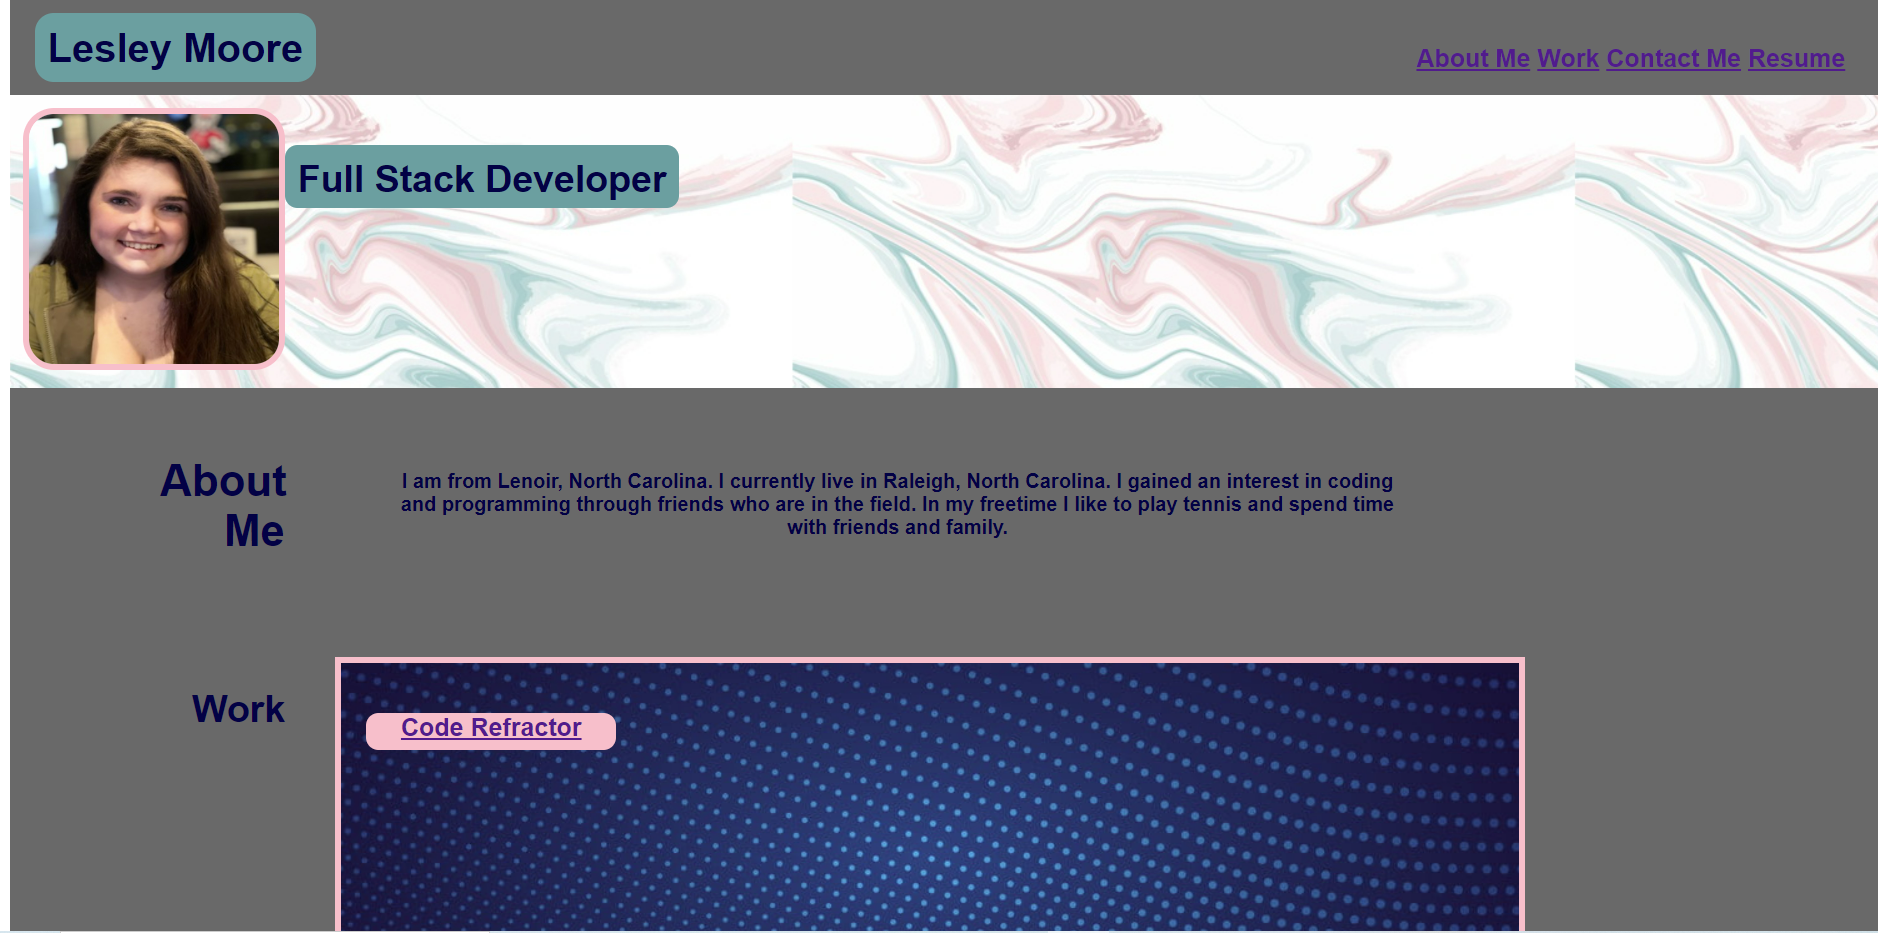
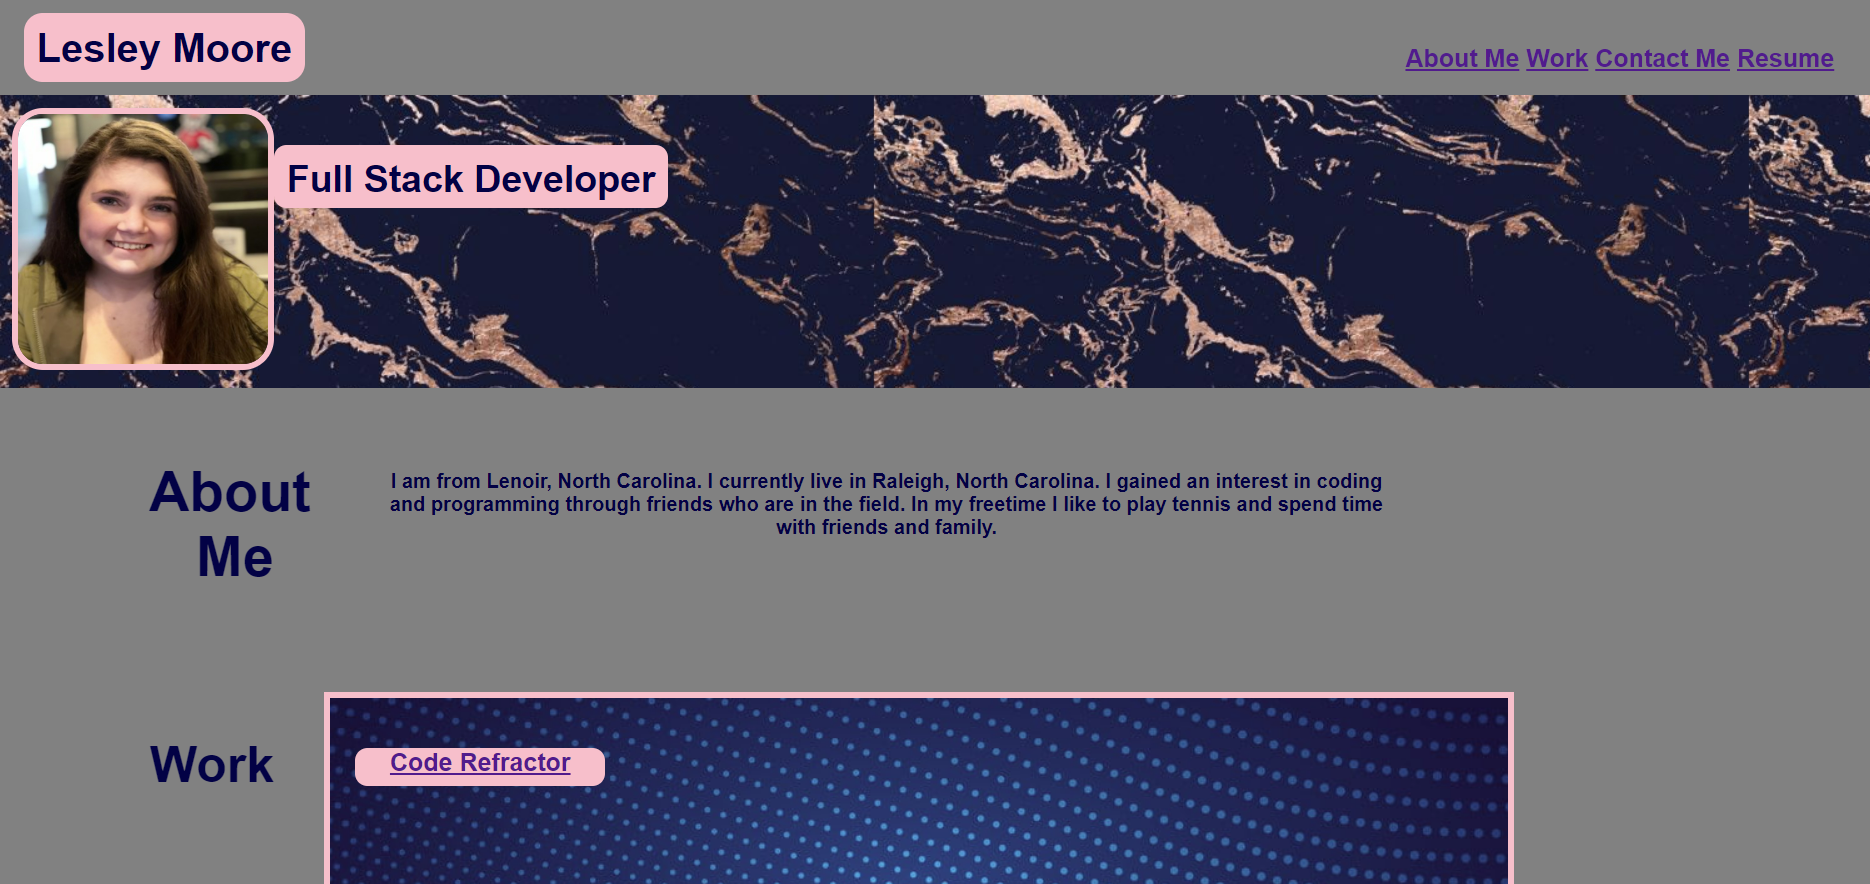
updated readme, and link colors

diff --git a/style.css b/style.css
@@ -29,6 +29,10 @@ header h1{
     font-size: 20px;
     padding: 15px;
 }
+/*determine links color*/
+.link {
+    color: var(--navy);
+}
 /*image across under header*/
 .area {
     background-image: url(https://i.pinimg.com/originals/54/6e/d6/546ed6136fd398c3a2a6eab2896e2064.jpg);
@@ -84,7 +88,7 @@ header h1{
     margin-left: 100px;
     margin-right: 20px;
     text-align: right;
-    font-size: 30px;
+    font-size: 40px;
 }
 .card {
     background-color:var(--pink);

diff --git a/index.html b/index.html
@@ -9,10 +9,10 @@
 <main>
 <header>
     <nav class="top">
-        <a href="#About">About Me</a>
-        <a href="#Work">Work</a>
-        <a href="#Contact">Contact Me</a>
-        <a href="#Resume">Resume</a>
+        <a class="link" href="#About">About Me</a>
+        <a class="link" href="#Work">Work</a>
+        <a class="link" href="#Contact">Contact Me</a>
+        <a class="link" href="#Resume">Resume</a>
     </nav>
     <h1>Lesley Moore</h1>
 </header>

diff --git a/README.md b/README.md
@@ -4,18 +4,19 @@ This is my Professional Portfolio I will continue to build off of and add projec
 
 ## Requirements
 
-* Name, recent photo, links to navigate to sections, work, contact info
+* Name, recent photo, links to navigate to sections
 * Navigation links will scroll to corresponding section when clicked
 * First application in work is larger in size than others
 * Images take you to the deployed application
 * Responsive layout that adapts to viewpoint
 * HTML and CSS uses best practices for naming, comments, organization, etc
+* Descriptive commit comments
 * Live URL and no errors loading website
 * ReadME on GitHub with screenshot and link to website
 
 ## Project Notes
 
-I created a Portfolio that will display my work for employers and other developers. I chose a color scheme and photos to display my work that is flexible and I am able to alter at any time through CSS. I wrote a HTML using semantic elements and relative classes and ids. I wrote the CSS to include media screens for an adaptible screen for tablets and mobile devices. I linked my first work Code Refractor, the others will be linked to real websites when I complete them. My Github, LinkedIn, and Resume are also linked. I included a photo of myself and small about me area so potential employers and other developers can get to know me from my page. 
+I created a Portfolio that will display my work for employers and other developers. I chose a color scheme and photos to display my work that is flexible and I am able to alter at any time through CSS. I wrote a HTML using semantic elements and relative classes and ids. I wrote the CSS to include media screens for an adaptible screen for tablets and mobile devices. I linked my first homework Code Refractor, the others will be updated and linked to actual websites when I complete them. My Github, and LinkedIn are also linked. I included a photo of myself and small about me area so potential employers and other developers can get to know me from my page. 
 
 ## Preview
 
